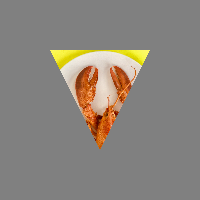
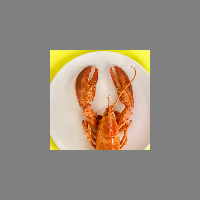
implemented index buffer

Changed region(s): [[0.24, 0.24, 0.75, 0.75]]

diff --git a/main.cpp b/main.cpp
@@ -195,14 +195,14 @@ public:
         glDeleteBuffers(1, &vbo_);
     }
 
-    void update(const std::vector<T>& data)
+    template<class CONTAINER>
+    void update(const CONTAINER& data)
     {
         if (data.size() != size_)
             throw Exception("Data size mismatch.");
 
         auto buffer = glMapNamedBuffer(vbo_, GL_WRITE_ONLY);
         std::copy(data.begin(), data.end(), buffer);
-        glUnmapBuffer(GL_ARRAY_BUFFER);
         glUnmapNamedBuffer(vbo_);
     }
 
@@ -212,6 +212,44 @@ public:
     VertexBuffer& operator=(const VertexBuffer&) = delete;
     VertexBuffer(VertexBuffer&&) = default;
     VertexBuffer& operator=(VertexBuffer&&) = default;
+};
+
+template<class T>
+class ElementBuffer
+{
+    GLuint ebo_;
+    const size_t size_;
+
+public:
+    template<class CONTAINER>
+    ElementBuffer(const CONTAINER& data, GLenum usage)
+        : size_(data.size()) 
+    {
+        glCreateBuffers(1, &ebo_);
+        glNamedBufferData(ebo_, sizeof(T) * data.size(), data.data(), usage);
+    }
+    ~ElementBuffer()
+    {
+        glDeleteBuffers(1, &ebo_);
+    }
+
+    template<class CONTAINER>
+    void update(const CONTAINER& data)
+    {
+        if (data.size() != size_)
+            throw Exception("Data size mismatch.");
+
+        auto buffer = glMapNamedBuffer(ebo_, GL_WRITE_ONLY);
+        std::copy(data.begin(), data.end(), buffer);
+        glUnmapNamedBuffer(ebo_);
+    }
+
+    GLuint get() const { return ebo_; }
+
+    ElementBuffer(const ElementBuffer&) = delete;
+    ElementBuffer& operator=(const ElementBuffer&) = delete;
+    ElementBuffer(ElementBuffer&&) = default;
+    ElementBuffer& operator=(ElementBuffer&&) = default;
 };
 
 class VertexArray
@@ -235,6 +273,12 @@ public:
         glVertexArrayVertexBuffer(vao_, variable, vbo.get(), 0, sizeof(T));
         glVertexArrayAttribFormat(vao_, variable, elementSize, elementType, GL_FALSE, elementOffset);
         glVertexArrayAttribBinding(vao_, variable, variable);
+    }
+
+    template<class T>
+    void mapVariable(const ElementBuffer<T>& ebo)
+    {
+        glVertexArrayElementBuffer(vao_, ebo.get());
     }
   
     GLuint get() const { return vao_; }
@@ -614,15 +658,23 @@ int main()
     glUniform1i(glGetUniformLocation(program.get(), "texture"), 0);
 
     //Vertex
-    std::array<Vertex, 3> verticies = {
+    std::array<Vertex, 4> verticies = {
         -0.5f, -0.5f, 0.0f,
          0.5f, -0.5f, 0.0f,
-         0.0f,  0.5f, 0.0f,
+         0.5f,  0.5f, 0.0f,
+        -0.5f,  0.5f, 0.0f,
     };
     cgs::gl::VertexBuffer<Vertex> vbo(verticies, GL_STATIC_DRAW);
 
+    std::array<uint, 6> indicies = {
+        0, 1, 2, 
+        2, 3, 0,
+    };
+    cgs::gl::ElementBuffer<uint> ebo(indicies, GL_STATIC_DRAW);
+
     cgs::gl::VertexArray vao;
     vao.mapVariable(vbo, glGetAttribLocation(program.get(), "position"), 3, GL_FLOAT, 0);
+    vao.mapVariable(ebo);
 
     //Texture
 
@@ -648,7 +700,7 @@ int main()
     sampler.bindToUnit(0);
 
     vao.bind();
-    glDrawArrays(GL_TRIANGLES, 0, verticies.size());
+    glDrawElements(GL_TRIANGLES, indicies.size(), GL_UNSIGNED_INT, nullptr);
 
     glFinish();
 
